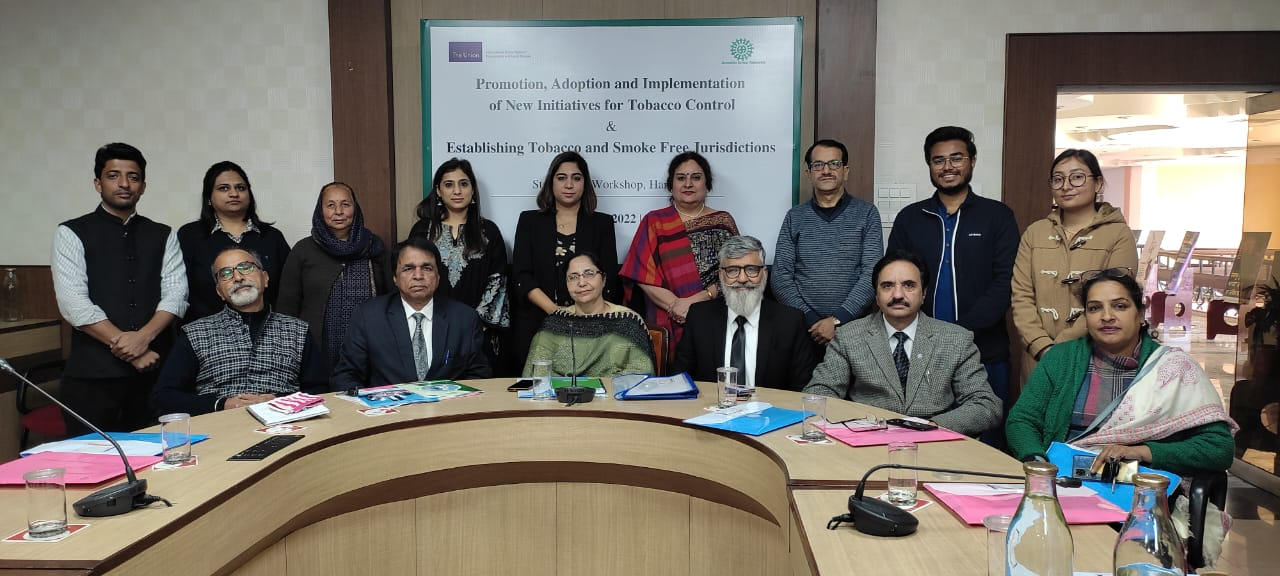
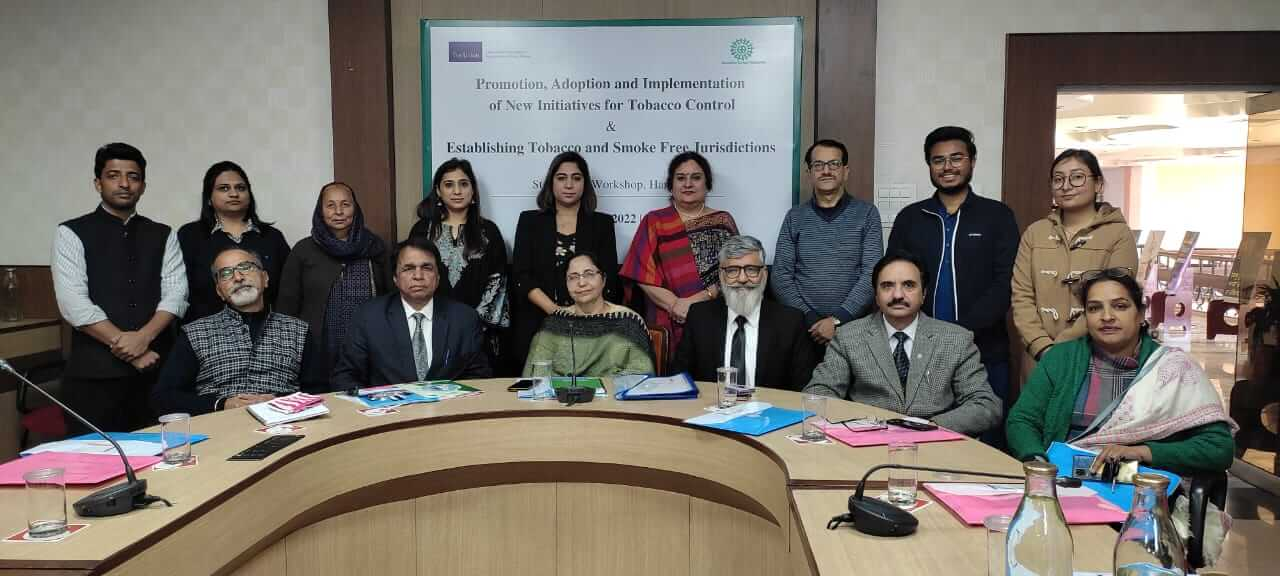
chg

diff --git a/layouts/partials/hero.html b/layouts/partials/hero.html
@@ -3,7 +3,7 @@
     <div class="overlay"></div>
     <div class="carousel-inner">
         <div class="carousel-item active">
-            <img src="/img/slider_home/1.JPG" class="d-block w-100" alt="Slide 1">
+            <img src="/img/slider_home/1.jpg" class="d-block w-100" alt="Slide 1">
         </div>
         <div class="carousel-item">
             <img src="/img/slider_home/3.jpg" class="d-block w-100" alt="Slide 3">
